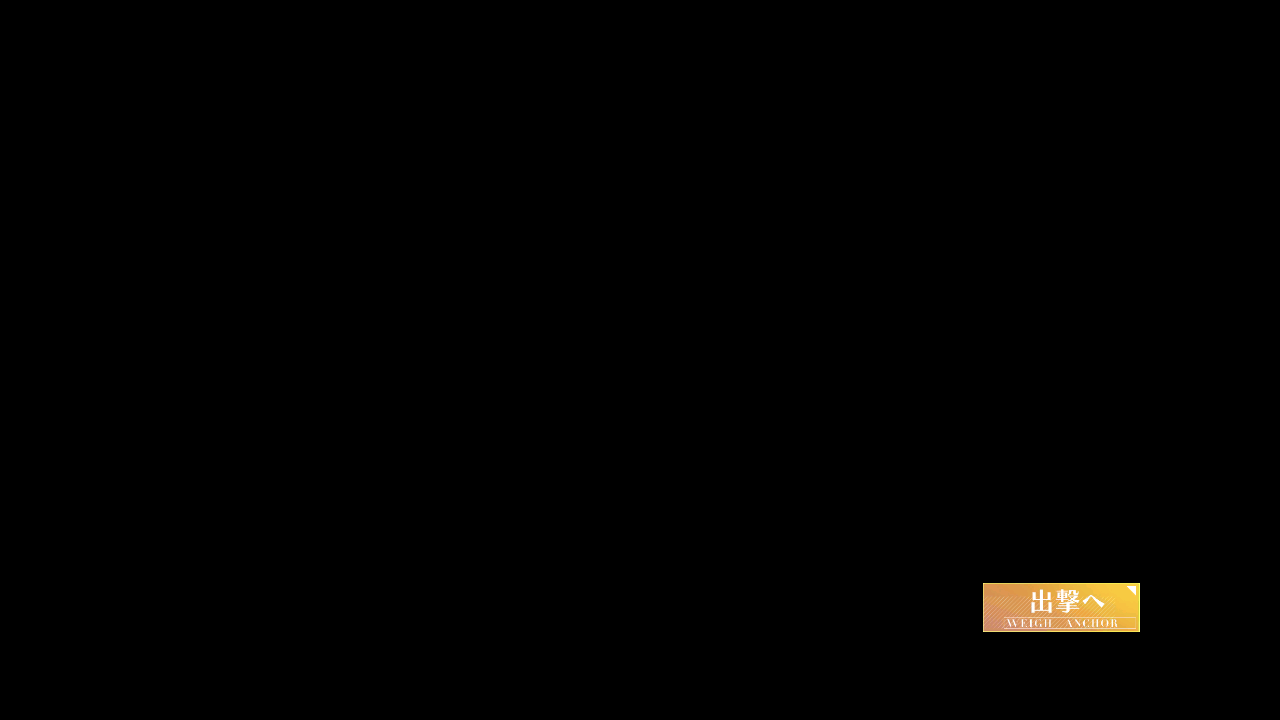
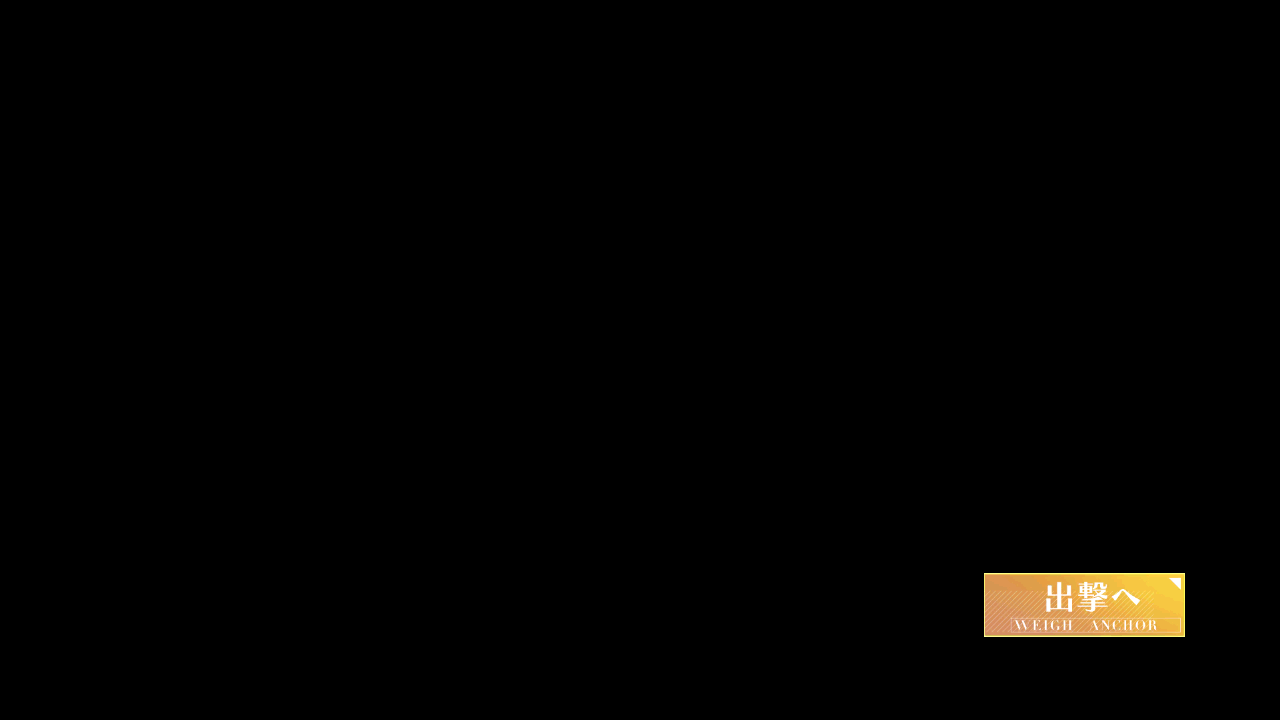
Upd: [JP] FLEET_PREPARATION

Changed region(s): [[0.75, 0.7944, 0.9375, 0.8861]]

diff --git a/module/map/assets.py b/module/map/assets.py
@@ -18,7 +18,7 @@ FLEET_2_HARD_SATIESFIED = Button(area={'cn': (208, 267, 227, 401), 'en': (208, 2
 FLEET_2_IN_USE = Button(area={'cn': (389, 351, 472, 385), 'en': (389, 351, 472, 385), 'jp': (389, 351, 472, 385), 'tw': (389, 351, 472, 385)}, color={'cn': (125, 130, 124), 'en': (125, 130, 124), 'jp': (125, 130, 124), 'tw': (125, 130, 124)}, button={'cn': (389, 351, 472, 385), 'en': (389, 351, 472, 385), 'jp': (389, 351, 472, 385), 'tw': (389, 351, 472, 385)}, file={'cn': './assets/cn/map/FLEET_2_IN_USE.png', 'en': './assets/en/map/FLEET_2_IN_USE.png', 'jp': './assets/jp/map/FLEET_2_IN_USE.png', 'tw': './assets/tw/map/FLEET_2_IN_USE.png'})
 FLEET_NUM_1 = Button(area={'cn': (213, 76, 224, 101), 'en': (213, 76, 224, 101), 'jp': (213, 76, 224, 101), 'tw': (213, 76, 224, 101)}, color={'cn': (51, 143, 186), 'en': (51, 143, 186), 'jp': (51, 143, 186), 'tw': (51, 143, 186)}, button={'cn': (213, 76, 224, 101), 'en': (213, 76, 224, 101), 'jp': (213, 76, 224, 101), 'tw': (213, 76, 224, 101)}, file={'cn': './assets/cn/map/FLEET_NUM_1.png', 'en': './assets/en/map/FLEET_NUM_1.png', 'jp': './assets/jp/map/FLEET_NUM_1.png', 'tw': './assets/tw/map/FLEET_NUM_1.png'})
 FLEET_NUM_2 = Button(area={'cn': (212, 75, 226, 101), 'en': (212, 75, 226, 101), 'jp': (212, 75, 226, 101), 'tw': (212, 75, 226, 101)}, color={'cn': (52, 150, 194), 'en': (52, 150, 194), 'jp': (52, 150, 194), 'tw': (52, 150, 194)}, button={'cn': (212, 75, 226, 101), 'en': (212, 75, 226, 101), 'jp': (212, 75, 226, 101), 'tw': (212, 75, 226, 101)}, file={'cn': './assets/cn/map/FLEET_NUM_2.png', 'en': './assets/en/map/FLEET_NUM_2.png', 'jp': './assets/jp/map/FLEET_NUM_2.png', 'tw': './assets/tw/map/FLEET_NUM_2.png'})
-FLEET_PREPARATION = Button(area={'cn': (965, 578, 1162, 637), 'en': (969, 576, 1160, 637), 'jp': (983, 583, 1140, 632), 'tw': (964, 577, 1163, 638)}, color={'cn': (236, 186, 116), 'en': (233, 175, 90), 'jp': (232, 181, 102), 'tw': (235, 186, 114)}, button={'cn': (965, 578, 1162, 637), 'en': (969, 576, 1160, 637), 'jp': (983, 583, 1140, 632), 'tw': (964, 577, 1163, 638)}, file={'cn': './assets/cn/map/FLEET_PREPARATION.png', 'en': './assets/en/map/FLEET_PREPARATION.png', 'jp': './assets/jp/map/FLEET_PREPARATION.png', 'tw': './assets/tw/map/FLEET_PREPARATION.png'})
+FLEET_PREPARATION = Button(area={'cn': (965, 578, 1162, 637), 'en': (969, 576, 1160, 637), 'jp': (984, 573, 1185, 637), 'tw': (964, 577, 1163, 638)}, color={'cn': (236, 186, 116), 'en': (233, 175, 90), 'jp': (234, 184, 100), 'tw': (235, 186, 114)}, button={'cn': (965, 578, 1162, 637), 'en': (969, 576, 1160, 637), 'jp': (984, 573, 1185, 637), 'tw': (964, 577, 1163, 638)}, file={'cn': './assets/cn/map/FLEET_PREPARATION.png', 'en': './assets/en/map/FLEET_PREPARATION.png', 'jp': './assets/jp/map/FLEET_PREPARATION.png', 'tw': './assets/tw/map/FLEET_PREPARATION.png'})
 HARD_MODE_DETECTION = Button(area={'cn': (200, 127, 206, 552), 'en': (200, 127, 206, 552), 'jp': (200, 127, 206, 552), 'tw': (200, 127, 206, 552)}, color={'cn': (82, 72, 67), 'en': (82, 72, 67), 'jp': (82, 72, 67), 'tw': (82, 72, 67)}, button={'cn': (200, 127, 206, 552), 'en': (200, 127, 206, 552), 'jp': (200, 127, 206, 552), 'tw': (200, 127, 206, 552)}, file={'cn': './assets/cn/map/HARD_MODE_DETECTION.png', 'en': './assets/en/map/HARD_MODE_DETECTION.png', 'jp': './assets/jp/map/HARD_MODE_DETECTION.png', 'tw': './assets/tw/map/HARD_MODE_DETECTION.png'})
 MAP_CAT_ATTACK = Button(area={'cn': (1237, 103, 1252, 153), 'en': (1237, 103, 1252, 153), 'jp': (1237, 103, 1252, 153), 'tw': (1237, 103, 1252, 153)}, color={'cn': (43, 45, 52), 'en': (43, 45, 52), 'jp': (43, 45, 52), 'tw': (43, 45, 52)}, button={'cn': (1148, 653, 1262, 705), 'en': (1147, 651, 1263, 701), 'jp': (1149, 653, 1261, 704), 'tw': (1148, 653, 1262, 705)}, file={'cn': './assets/cn/map/MAP_CAT_ATTACK.png', 'en': './assets/en/map/MAP_CAT_ATTACK.png', 'jp': './assets/jp/map/MAP_CAT_ATTACK.png', 'tw': './assets/tw/map/MAP_CAT_ATTACK.png'})
 MAP_CAT_ATTACK_MIRROR = Button(area={'cn': (147, 145, 187, 157), 'en': (147, 145, 187, 157), 'jp': (147, 145, 187, 157), 'tw': (147, 145, 187, 157)}, color={'cn': (214, 191, 99), 'en': (214, 191, 99), 'jp': (214, 191, 99), 'tw': (214, 191, 99)}, button={'cn': (147, 145, 187, 157), 'en': (147, 145, 187, 157), 'jp': (147, 145, 187, 157), 'tw': (147, 145, 187, 157)}, file={'cn': './assets/cn/map/MAP_CAT_ATTACK_MIRROR.png', 'en': './assets/en/map/MAP_CAT_ATTACK_MIRROR.png', 'jp': './assets/jp/map/MAP_CAT_ATTACK_MIRROR.png', 'tw': './assets/tw/map/MAP_CAT_ATTACK_MIRROR.png'})
